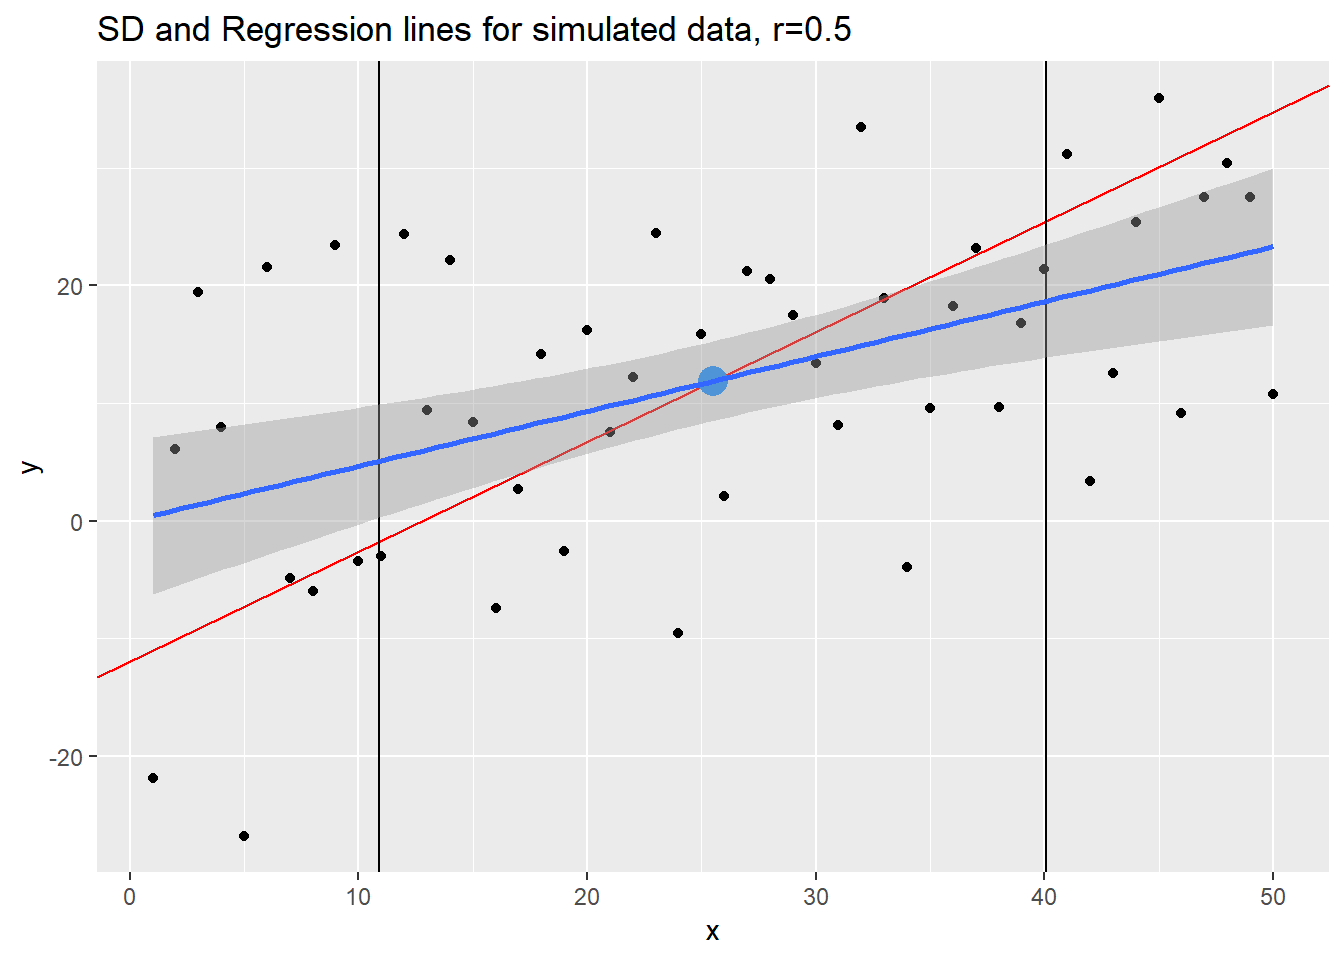
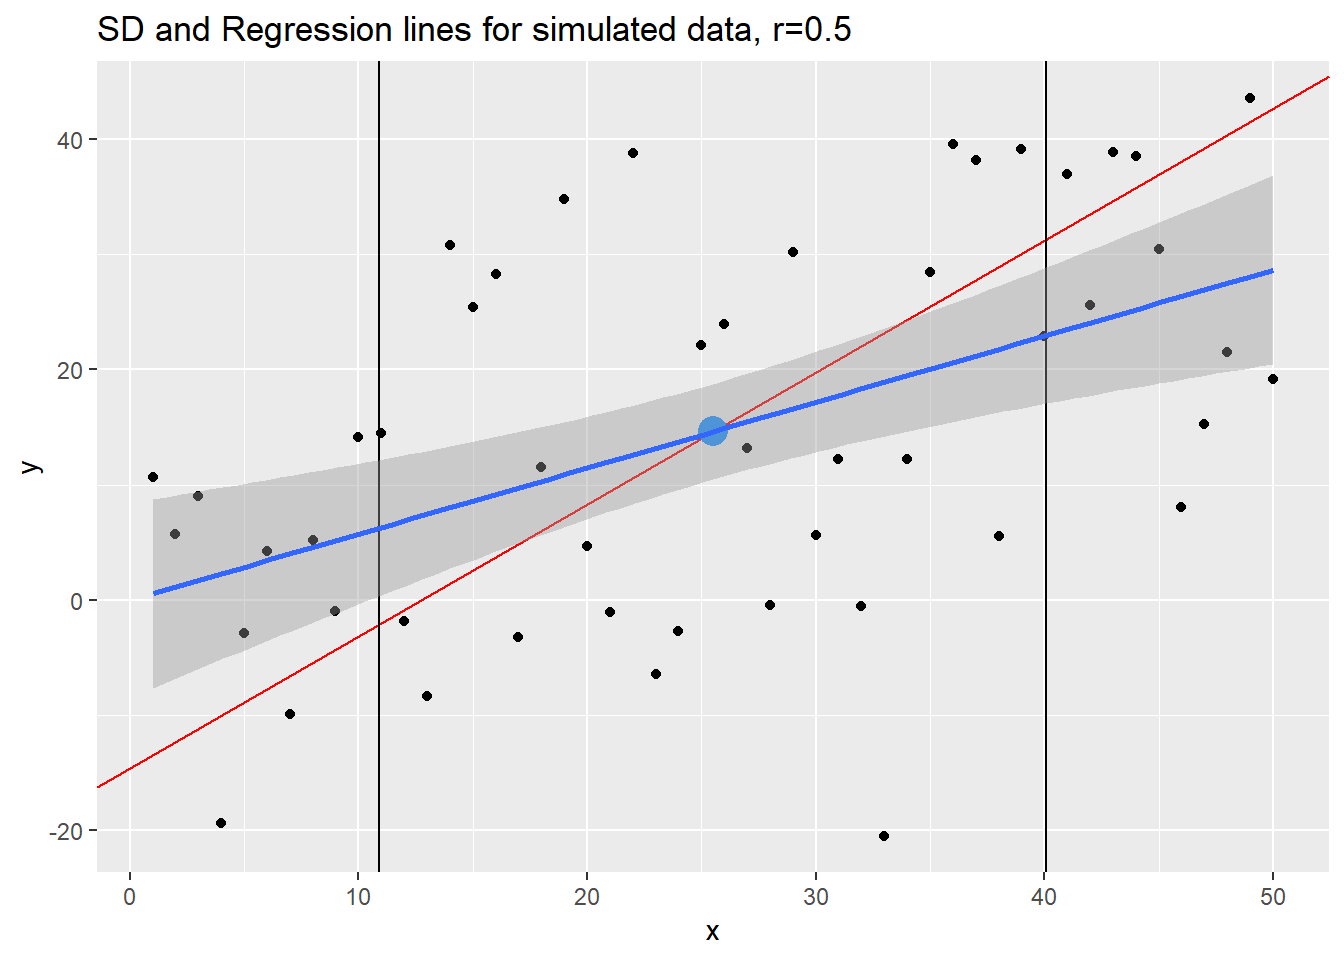
added coding skills

diff --git a/post/gganimate/index.html b/post/gganimate/index.html
@@ -409,13 +409,13 @@ r.vals &lt;- rep(r, each=length(x))
 
 data &lt;- data.frame(x.vals=x.vals, y.vals=y.vals, r.vals=r.vals)
 head(data)</code></pre>
-<pre><code>##   x.vals      y.vals r.vals
-## 1      0   0.3860349      0
-## 2      1 -31.0735631      0
-## 3      2   5.7014300      0
-## 4      3  -6.3125740      0
-## 5      4   0.2866958      0
-## 6      5   4.6431992      0</code></pre>
+<pre><code>##   x.vals       y.vals r.vals
+## 1      0   8.61369639      0
+## 2      1   9.53465158      0
+## 3      2   0.06220586      0
+## 4      3  38.21590524      0
+## 5      4 -14.63318502      0
+## 6      5   5.40769485      0</code></pre>
 <pre class="r"><code>p.set &lt;- ggplot( data %&gt;% group_by(r.vals) %&gt;% mutate(slope.sd=sd(y.vals)/sd(x.vals), 
                                      icept.sd= mean(y.vals)- (sd(y.vals)/sd(x.vals))*mean(x.vals),
                                      slope.r=r.vals*sd(y.vals)/sd(x.vals),

diff --git a/index.html b/index.html
@@ -362,7 +362,15 @@
           
           <li>R</li>
           
+          <li>Python</li>
+          
+          <li>C++</li>
+          
+          <li>JavaScript</li>
+          
           <li>Latex, Markdown</li>
+          
+          <li>HTML</li>
           
         </ul>
       
